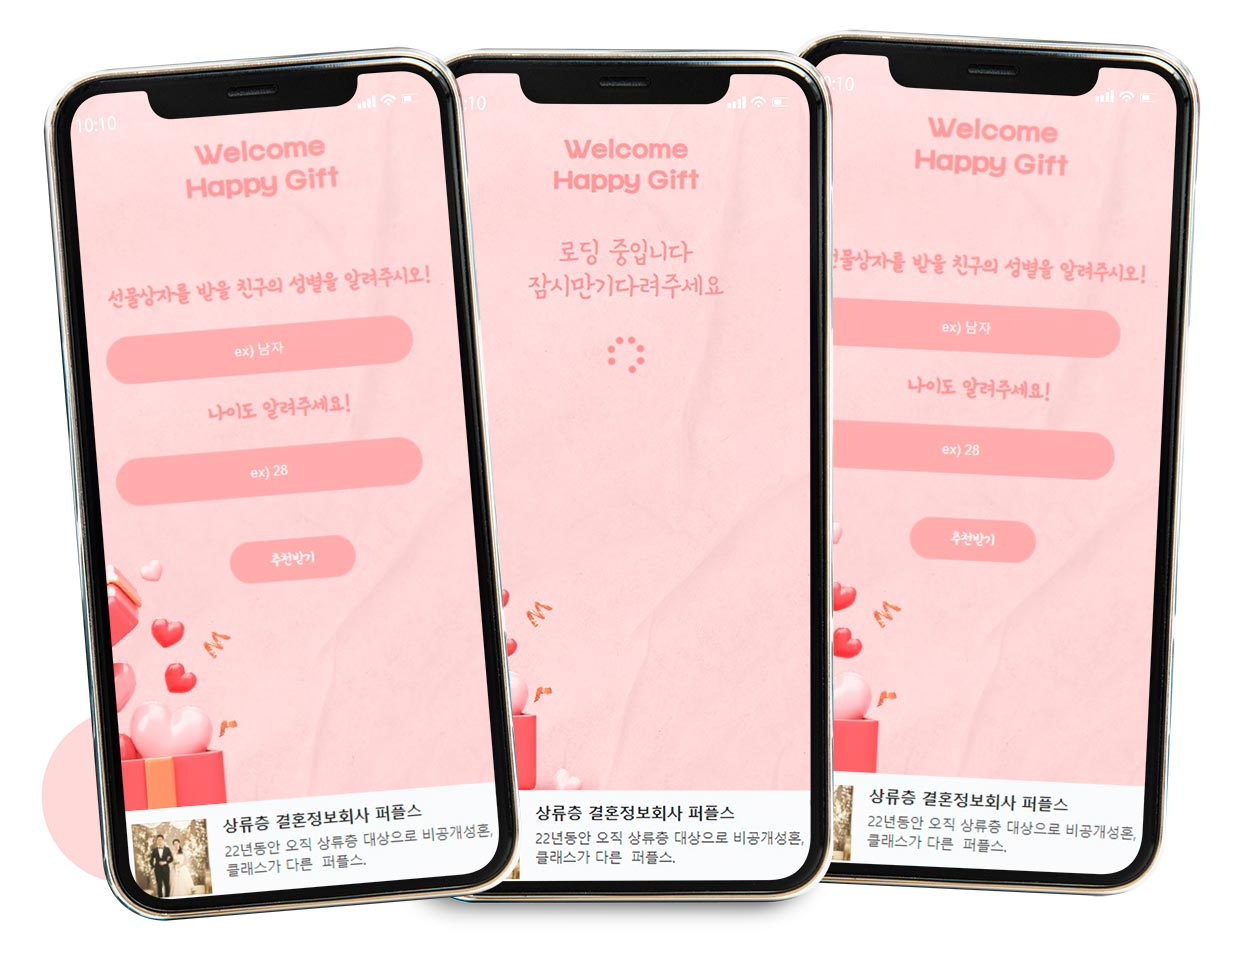
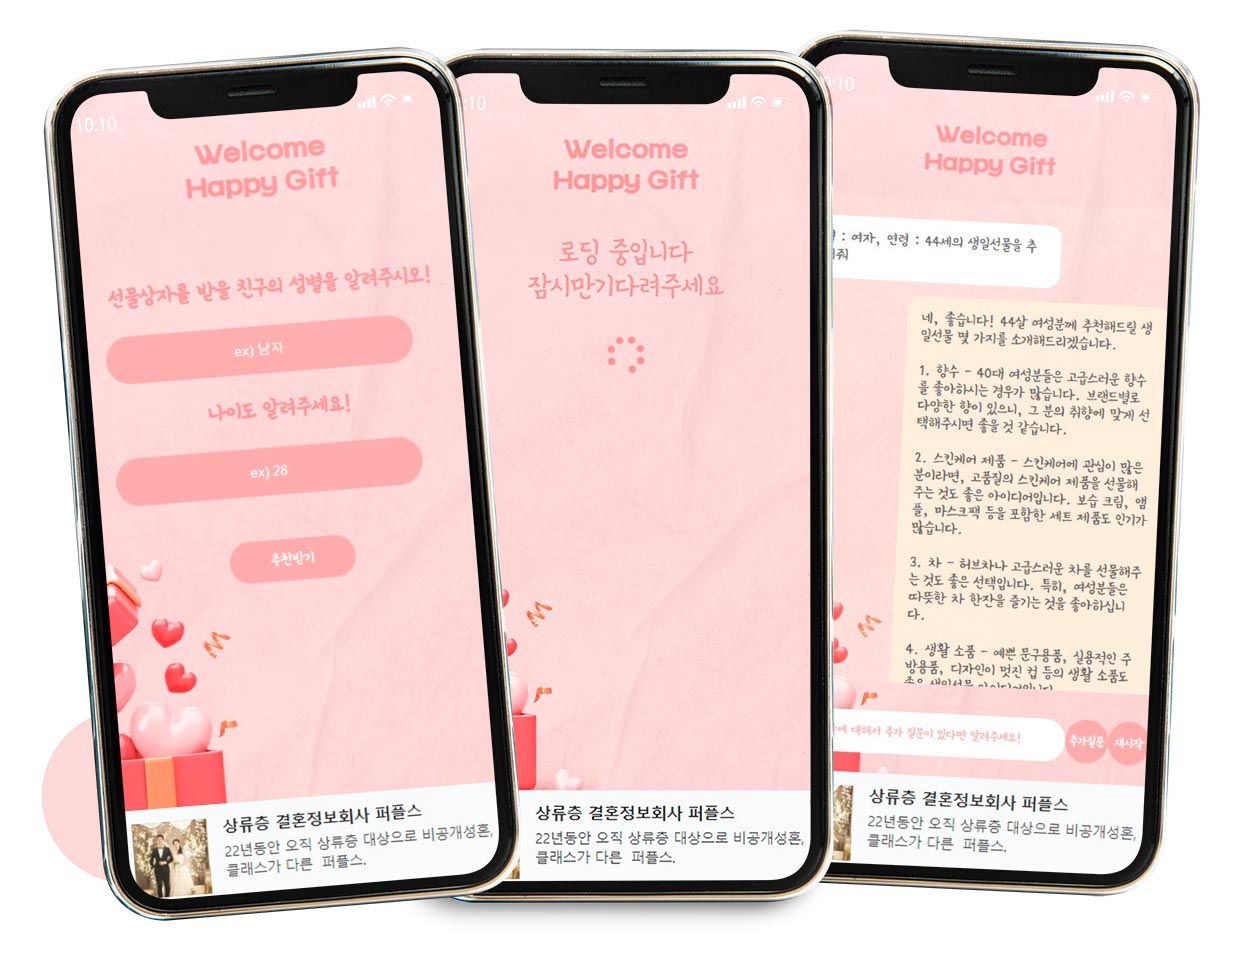
23.05.09 README 작업

Changed region(s): [[0.6742, 0.2167, 0.95, 0.805], [0.7355, 0.1238, 0.8581, 0.1858]]

diff --git a/frontend/index.html b/frontend/index.html
@@ -32,13 +32,7 @@
 
           <button id="btnSendMessage"><span>추천받기</span></button>
         </div>
-        <div class="loder">
-          <p>
-            로딩 중입니다 <br />
-            잠시만기다려주세요
-          </p>
-          <i class="fa-solid fa-spinner fa-spin icon"></i>
-        </div>
+
         <div class="chat_con">
           <!-- 답변내용출력 -->
           <!-- <div class="chat_message">
@@ -47,6 +41,13 @@
         <div class="chat_message">
           <p>사용자 질문내용</p>
         </div> -->
+        </div>
+        <div class="loder">
+          <p>
+            로딩 중입니다 <br />
+            잠시만기다려주세요
+          </p>
+          <i class="fa-solid fa-spinner fa-spin icon"></i>
         </div>
         <div class="chat-input">
           <input

diff --git a/backend/index.js b/backend/index.js
@@ -1,4 +1,4 @@
-let apiKey = "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";
+let apiKey = "";
 
 const { Configuration, OpenAIApi } = require("openai");
 const express = require("express");

diff --git a/README.md b/README.md
@@ -2,4 +2,4 @@
 
 ## [Demo](https://etourguide.pages.dev/)
 
-<img src="" alt="moukup" >
+<img src="https://raw.githubusercontent.com/EUNSOLY/ChatGPT_Gift/0717182071ac249a860f4b57243bd2bf9e5fd77f/frontend/readmeImg/mockup.jpg" alt="moukup" width="550px" >
